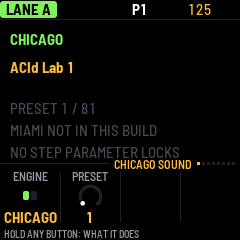
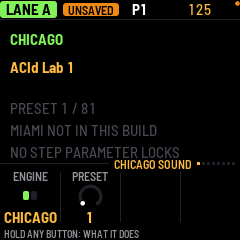
fix(ui): step bass presets discretely and render complete edited label

Changed region(s): [[0.2625, 0.0, 0.4958, 0.0875], [0.9625, 0.0, 1.0, 0.0292]]

diff --git a/tests/host/bass_presets_live_test.c b/tests/host/bass_presets_live_test.c
@@ -13,6 +13,27 @@ static void picture(const char *dir,const char *name,int voice)
     memset(blit_hash,0,sizeof blit_hash);draw_header();draw_main();draw_knobs();
     snprintf(path,sizeof path,"%s/%s-%d.png",dir,name,X0X_DEV_WOBBLE);png_write(path);
 }
+static void physical_browse(int voice)
+{
+    ui.part=PART_303A+voice;ui.view=V_PART;ui.overlay=O_NONE;ui.held_step=-1;
+    build_pages();*page_of(V_PART)=0;
+    memset(ui.enc_t,0,sizeof ui.enc_t);memset(ui.enc_run,0,sizeof ui.enc_run);
+    for(int i=1;i<=6;i++){now_ms++;enc_acc[EN_K2]=1;ui_input_only();CHECK(engine_bass_preset_index(voice)==i);}
+    for(int i=5;i>=0;i--){now_ms++;enc_acc[EN_K2]=-1;ui_input_only();CHECK(engine_bass_preset_index(voice)==i);}
+    for(int i=1;i<=4;i++){now_ms++;enc_acc[EN_PRESET]=1;ui_input_only();CHECK(engine_bass_preset_index(voice)==i);}
+    for(int i=3;i>=0;i--){now_ms++;enc_acc[EN_PRESET]=-1;ui_input_only();CHECK(engine_bass_preset_index(voice)==i);}
+}
+static void edited_pixels(int voice)
+{
+    uint16_t actual[16*80];unsigned colored=0;
+    ui.part=PART_303A+voice;ui.view=V_PART;ui.overlay=O_NONE;ui.held_step=-1;
+    build_pages();*page_of(V_PART)=0;ui.touched=-1;memset(blit_hash,0,sizeof blit_hash);draw_main();
+    CHECK(FONT_S.h<=16);CHECK(12+FONT_S.h<=BAND_H);
+    for(int y=0;y<16;y++)for(int x=0;x<80;x++)actual[y*80+x]=fb[(MAIN_Y+12+y)*240+148+x];
+    cv_begin(240,BAND_H,C_BLACK);cv_text(148,12,&FONT_S,"EDITED",C_AMB);cv_commit(1,0,MAIN_Y);
+    for(int y=0;y<16;y++)for(int x=0;x<80;x++) {uint16_t expected=fb[(MAIN_Y+12+y)*240+148+x];CHECK(actual[y*80+x]==expected);colored+=expected!=0;}
+    CHECK(colored>20);
+}
 int main(int argc,char **argv)
 {
     uint8_t expected[32], old[32];unsigned writes;int32_t audio[512];
@@ -22,6 +43,7 @@ int main(int argc,char **argv)
     CHECK(bass_preset_decode(0,0,engine_bass_bank_param,expected)==0);
     CHECK(!memcmp(expected,proj.sound.v[T_303][0],32));CHECK(!engine_bass_preset_edited(0));
     CHECK(engine_bass_preset_index(0)==0);CHECK(engine_bass_preview_changed());
+    physical_browse(0);
     if(argc>1)picture(argv[1],"chicago-acid-lab-1",0);
     writes=store_writes;CHECK(project_save()==-9);CHECK(store_writes==writes);
     memcpy(old,proj.sound.v[T_303][0],32);engine_bass_wheel_owners(1);
@@ -38,6 +60,7 @@ int main(int argc,char **argv)
     CHECK(engine_bass_bank(1)==1);CHECK(engine_nparams(T_303,1)==23);
     CHECK(bass_preset_decode(1,0,engine_bass_bank_param,expected)==0);
     CHECK(!memcmp(expected,proj.sound.v[T_303][1],32));CHECK(!engine_bass_preset_edited(1));
+    physical_browse(1);
     if(argc>1)picture(argv[1],"miami-16th-cutz",1);
     engine_bass_on(1,48,100,0);
     { int audible=0;for(int k=0;k<10;k++){engine_render(audio,256);for(int j=0;j<512;j++)if(audio[j])audible=1;}CHECK(audible); }
@@ -48,6 +71,7 @@ int main(int argc,char **argv)
     CHECK(engine_bass_select_preset(1,0,0,&proj.sound)==-4);CHECK(engine_bass_bank(1)==1);
     proj.arr.lane[0].used=0;
     pref_set(PR(R_ENG,T_303,1,W_CARRIER_LEVEL),50);run_ms(20);CHECK(engine_bass_preset_edited(1));
+    edited_pixels(1);
     if(argc>1)picture(argv[1],"miami-edited",1);
 #else
     CHECK(!engine_bass_bank_available(0,1));CHECK(engine_bass_select_preset(0,1,0,&proj.sound)==-2);

diff --git a/firmware/src/app/ui.c b/firmware/src/app/ui.c
@@ -2444,7 +2444,11 @@ static void turn_ref(pref_t r, int e, int knob)
     const x0x_param_t *d = pref_desc(r);
     if (!d || r.kind == R_ACT || pref_read_only(r))
         return;
-    if (d->names || d->max < 24)
+    if (d->names || d->max < 24
+#if X0X_BASS_PRESET_PREVIEW
+        || r.kind == R_BPRESET
+#endif
+       )
         e = e > 0 ? 1 : -1;                          /* a switch: one detent, one position */
     else
         e = accel(knob, e, d->max);
@@ -3986,7 +3990,7 @@ static UI_DRAW void draw_303(int band, int gen)
         if(!band) {
             cv_text(10,12,&FONT_B,BENGINE_N[bank],col);
             cv_text(10,40,&FONT_B,preset<0?"SELECT PRESET":factory_preset_name(bank,preset),C_HI);
-            if(preset>=0 && engine_bass_preset_edited(b)) cv_text(10,64,&FONT_S,"EDITED",C_AMB);
+            if(preset>=0 && engine_bass_preset_edited(b)) cv_text(148,12,&FONT_S,"EDITED",C_AMB);
         } else {
             char count[32];
             put_i(put_s(put_i(put_s(count,"PRESET "),preset+1)," / "),factory_bank(bank)->npresets);

diff --git a/docs/proposals/bass-real-presets-20261026/README.md b/docs/proposals/bass-real-presets-20261026/README.md
@@ -19,3 +19,11 @@ Executed source checks:
 ASan + UBSan also passed both live-test profiles with the same 19 / 29 checks.
 
 These bounded checks do not replace combined-source regression, independent runtime review or native qualification. Full per-voice persistent engine assignment and complete preset delivery remain open until those gates and the coordinated schema change are complete.
+
+## Independent review corrections
+
+The original b6827c3d preview was BLOCKED: fast physical knob 2 turns advanced preset indices 1,2,3,6; EDITED text at band-local y64 was clipped. Prior API-only 19/29 checks did not cover these defects and do not establish input/layout acceptance.
+
+The follow-up explicitly treats preset choice as discrete in the real turn_ref path and positions EDITED at x148,y12 beside the engine. The extended test sends actual encoder events through ui_input_only: six quick forward/reverse knob 2 detents and four forward/reverse PRESETS detents for both available banks. It also compares all 1,280 pixels of the EDITED region with an unclipped real-font reference. 39 WBL0 / 1,352 WBL1 checks pass, including ASan/UBSan; frames regenerated from source.
+
+Independent review also found queued platform MIDI could start on a newly selected sound. This lifecycle finding remains OPEN at this UI-only correction checkpoint; this checkpoint is not ready for adoption or Library replacement.
